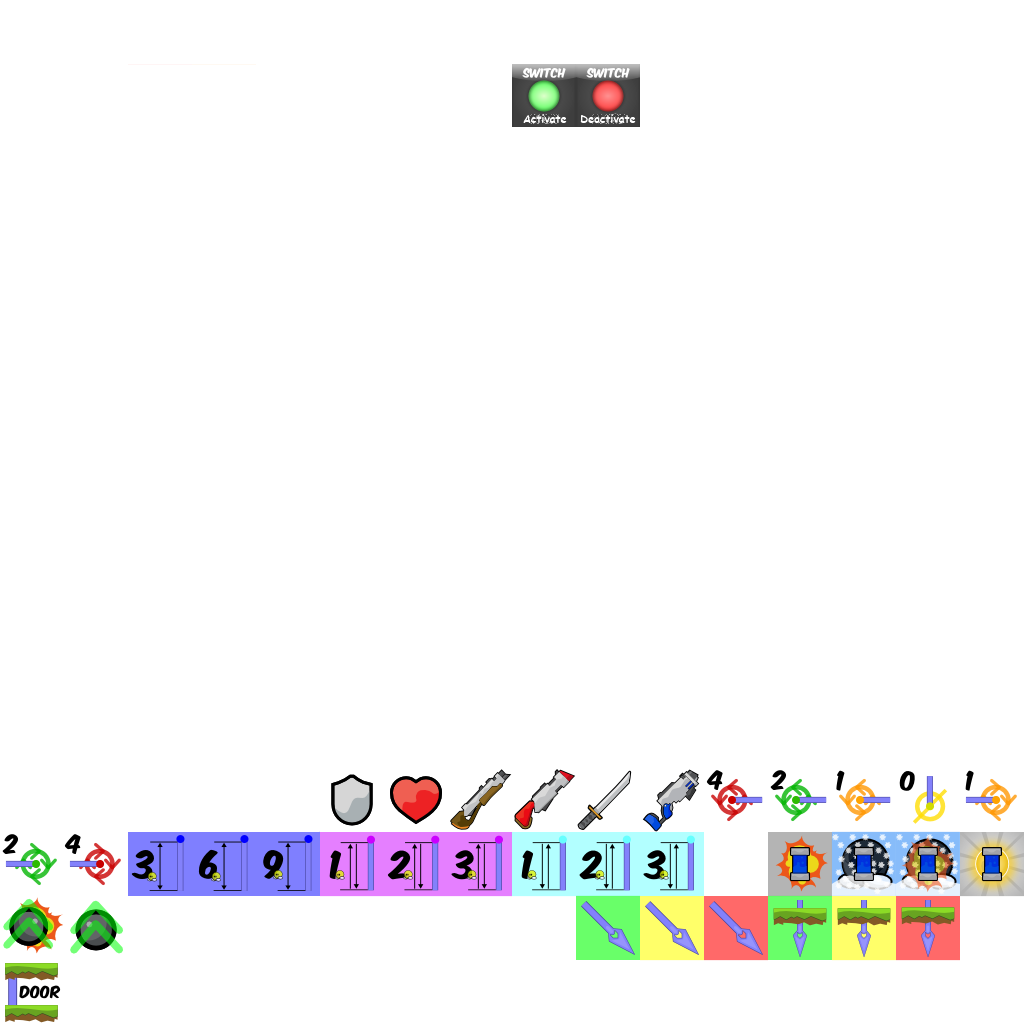
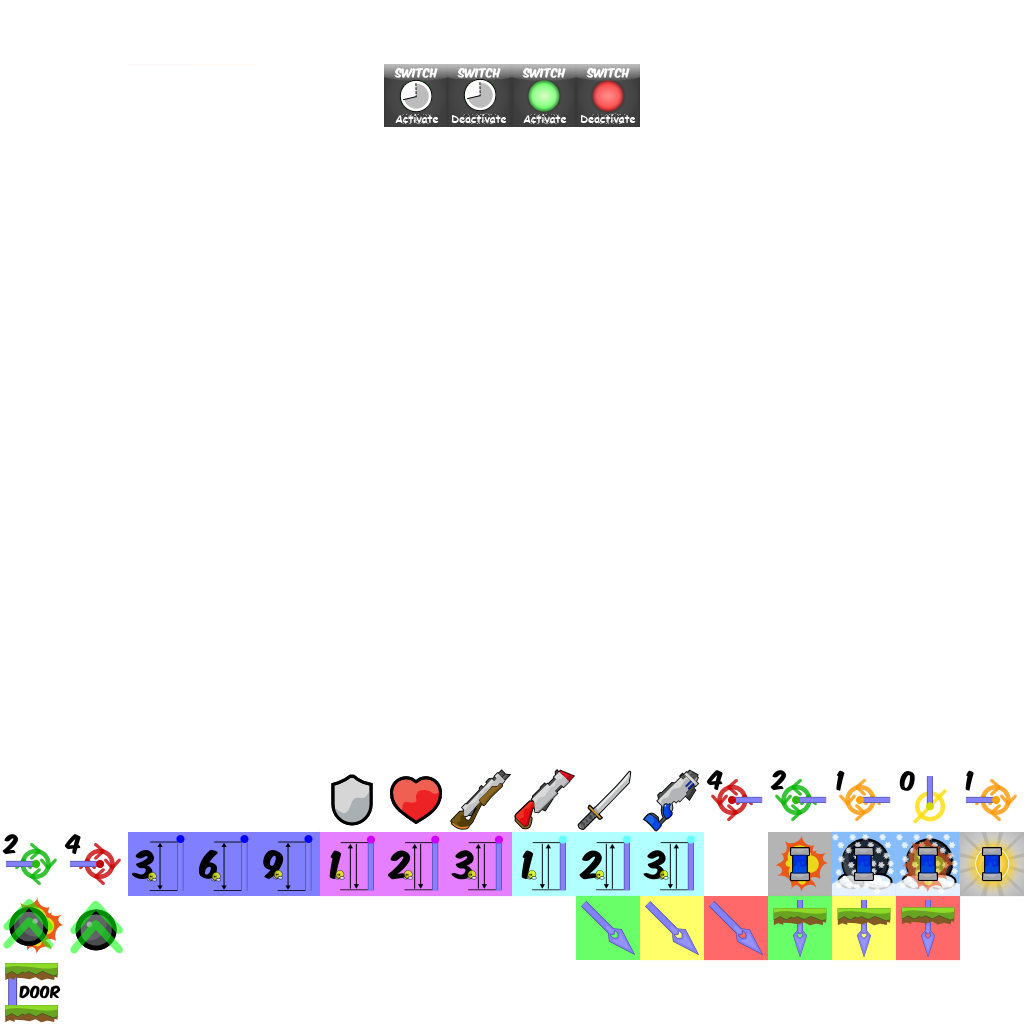
New Delayed Switches

Changed region(s): [[0.375, 0.0625, 0.5, 0.125]]

diff --git a/src/game/editor/ed_layer_tiles.cpp b/src/game/editor/ed_layer_tiles.cpp
@@ -217,8 +217,11 @@ int CLayerTiles::BrushGrab(CLayerGroup *pBrush, CUIRect Rect)
 				for(int x = 0; x < r.w; x++)
 				{
 					pGrabbed->m_pSwitchTile[y*pGrabbed->m_Width+x] = ((CLayerSwitch*)this)->m_pSwitchTile[(r.y+y)*m_Width+(r.x+x)];
-					if(pGrabbed->m_pSwitchTile[y*pGrabbed->m_Width+x].m_Type == ENTITY_DOOR + ENTITY_OFFSET || pGrabbed->m_pSwitchTile[y*pGrabbed->m_Width+x].m_Type == TILE_SWITCHOPEN || pGrabbed->m_pSwitchTile[y*pGrabbed->m_Width+x].m_Type == TILE_SWITCHCLOSE || pGrabbed->m_pSwitchTile[y*pGrabbed->m_Width+x].m_Type == ENTITY_LASER_LONG + ENTITY_OFFSET || pGrabbed->m_pSwitchTile[y*pGrabbed->m_Width+x].m_Type == ENTITY_LASER_MEDIUM + ENTITY_OFFSET || pGrabbed->m_pSwitchTile[y*pGrabbed->m_Width+x].m_Type == ENTITY_LASER_SHORT + ENTITY_OFFSET)
+					if(pGrabbed->m_pSwitchTile[y*pGrabbed->m_Width+x].m_Type == ENTITY_DOOR + ENTITY_OFFSET || pGrabbed->m_pSwitchTile[y*pGrabbed->m_Width+x].m_Type == TILE_SWITCHOPEN || pGrabbed->m_pSwitchTile[y*pGrabbed->m_Width+x].m_Type == TILE_SWITCHCLOSE || pGrabbed->m_pSwitchTile[y*pGrabbed->m_Width+x].m_Type == TILE_SWITCHTIMEDOPEN || pGrabbed->m_pSwitchTile[y*pGrabbed->m_Width+x].m_Type == TILE_SWITCHTIMEDCLOSE || pGrabbed->m_pSwitchTile[y*pGrabbed->m_Width+x].m_Type == ENTITY_LASER_LONG + ENTITY_OFFSET || pGrabbed->m_pSwitchTile[y*pGrabbed->m_Width+x].m_Type == ENTITY_LASER_MEDIUM + ENTITY_OFFSET || pGrabbed->m_pSwitchTile[y*pGrabbed->m_Width+x].m_Type == ENTITY_LASER_SHORT + ENTITY_OFFSET)
+					{
 						m_pEditor->m_SwitchNum = pGrabbed->m_pSwitchTile[y*pGrabbed->m_Width+x].m_Number;
+						m_pEditor->m_SwitchDelay = pGrabbed->m_pSwitchTile[y*pGrabbed->m_Width+x].m_Delay;
+					}
 				}
 	}
 	else
@@ -289,7 +292,7 @@ void CLayerTiles::BrushDraw(CLayer *pBrush, float wx, float wy)
 				continue;
 				
 			// dont allow tele in and out tiles... same with speedup tile in game layer
-			if(m_pEditor->GetSelectedLayer(0) == m_pEditor->m_Map.m_pGameLayer && (l->m_pTiles[y*l->m_Width+x].m_Index == TILE_TELEIN || l->m_pTiles[y*l->m_Width+x].m_Index == TILE_TELEINEVIL || l->m_pTiles[y*l->m_Width+x].m_Index == TILE_TELEOUT || l->m_pTiles[y*l->m_Width+x].m_Index == TILE_BOOST || l->m_pTiles[y*l->m_Width+x].m_Index == TILE_SWITCHOPEN || l->m_pTiles[y*l->m_Width+x].m_Index == TILE_SWITCHCLOSE || l->m_pTiles[y*l->m_Width+x].m_Index == (ENTITY_DOOR + ENTITY_OFFSET)))
+			if(m_pEditor->GetSelectedLayer(0) == m_pEditor->m_Map.m_pGameLayer && (l->m_pTiles[y*l->m_Width+x].m_Index == TILE_TELEIN || l->m_pTiles[y*l->m_Width+x].m_Index == TILE_TELEINEVIL || l->m_pTiles[y*l->m_Width+x].m_Index == TILE_TELEOUT || l->m_pTiles[y*l->m_Width+x].m_Index == TILE_BOOST || l->m_pTiles[y*l->m_Width+x].m_Index == TILE_SWITCHOPEN || l->m_pTiles[y*l->m_Width+x].m_Index == TILE_SWITCHCLOSE || l->m_pTiles[y*l->m_Width+x].m_Index == TILE_SWITCHTIMEDOPEN || l->m_pTiles[y*l->m_Width+x].m_Index == TILE_SWITCHTIMEDCLOSE || l->m_pTiles[y*l->m_Width+x].m_Index == (ENTITY_DOOR + ENTITY_OFFSET)))
 				continue;
 
 			m_pTiles[fy*m_Width+fx] = l->m_pTiles[y*l->m_Width+x];
@@ -926,7 +929,7 @@ void CLayerFront::BrushDraw(CLayer *pBrush, float wx, float wy)
 				continue;
 
 			// dont allow tele in and out tiles... same with speedup tile and alot more in front
-			if(m_pEditor->GetSelectedLayer(0) == m_pEditor->m_Map.m_pFrontLayer && (l->m_pTiles[y*l->m_Width+x].m_Index == TILE_TELEIN || l->m_pTiles[y*l->m_Width+x].m_Index == TILE_TELEINEVIL || l->m_pTiles[y*l->m_Width+x].m_Index == TILE_TELEOUT || l->m_pTiles[y*l->m_Width+x].m_Index == TILE_BOOST || l->m_pTiles[y*l->m_Width+x].m_Index == TILE_SWITCHOPEN || l->m_pTiles[y*l->m_Width+x].m_Index == TILE_SWITCHCLOSE || l->m_pTiles[y*l->m_Width+x].m_Index == (ENTITY_DOOR + ENTITY_OFFSET)) || l->m_pTiles[y*l->m_Width+x].m_Index == (TILE_SOLID) || l->m_pTiles[y*l->m_Width+x].m_Index == (TILE_NOHOOK) || l->m_pTiles[y*l->m_Width+x].m_Index ==TILE_CP || l->m_pTiles[y*l->m_Width+x].m_Index ==TILE_CP_F)
+			if(m_pEditor->GetSelectedLayer(0) == m_pEditor->m_Map.m_pFrontLayer && (l->m_pTiles[y*l->m_Width+x].m_Index == TILE_TELEIN || l->m_pTiles[y*l->m_Width+x].m_Index == TILE_TELEINEVIL || l->m_pTiles[y*l->m_Width+x].m_Index == TILE_TELEOUT || l->m_pTiles[y*l->m_Width+x].m_Index == TILE_BOOST || l->m_pTiles[y*l->m_Width+x].m_Index == TILE_SWITCHOPEN || l->m_pTiles[y*l->m_Width+x].m_Index == TILE_SWITCHCLOSE  || l->m_pTiles[y*l->m_Width+x].m_Index == TILE_SWITCHTIMEDOPEN  || l->m_pTiles[y*l->m_Width+x].m_Index == TILE_SWITCHTIMEDCLOSE || l->m_pTiles[y*l->m_Width+x].m_Index == (ENTITY_DOOR + ENTITY_OFFSET)) || l->m_pTiles[y*l->m_Width+x].m_Index == (TILE_SOLID) || l->m_pTiles[y*l->m_Width+x].m_Index == (TILE_NOHOOK) || l->m_pTiles[y*l->m_Width+x].m_Index ==TILE_CP || l->m_pTiles[y*l->m_Width+x].m_Index ==TILE_CP_F)
 				continue;
 			m_pTiles[fy*m_Width+fx] = l->m_pTiles[y*l->m_Width+x];
 		}
@@ -1019,7 +1022,7 @@ void CLayerSwitch::BrushDraw(CLayer *pBrush, float wx, float wy)
 			if(fx<0 || fx >= m_Width || fy < 0 || fy >= m_Height)
 				continue;
 
-			if(l->m_pTiles[y*l->m_Width+x].m_Index >= (ENTITY_ARMOR_1 + ENTITY_OFFSET) && l->m_pTiles[y*l->m_Width+x].m_Index <= (ENTITY_DOOR + ENTITY_OFFSET) || l->m_pTiles[y*l->m_Width+x].m_Index == TILE_SWITCHOPEN || l->m_pTiles[y*l->m_Width+x].m_Index == TILE_SWITCHCLOSE)
+			if(l->m_pTiles[y*l->m_Width+x].m_Index >= (ENTITY_ARMOR_1 + ENTITY_OFFSET) && l->m_pTiles[y*l->m_Width+x].m_Index <= (ENTITY_DOOR + ENTITY_OFFSET) || l->m_pTiles[y*l->m_Width+x].m_Index == TILE_SWITCHOPEN || l->m_pTiles[y*l->m_Width+x].m_Index == TILE_SWITCHCLOSE || l->m_pTiles[y*l->m_Width+x].m_Index == TILE_SWITCHTIMEDOPEN || l->m_pTiles[y*l->m_Width+x].m_Index == TILE_SWITCHTIMEDCLOSE)
 			{
 				/*if(l->m_pSwitchTile[y*l->m_Width+x].m_Number)
 					m_pSwitchTile[fy*m_Width+fx].m_Number = l->m_pSwitchTile[y*l->m_Width+x].m_Number;
@@ -1030,6 +1033,7 @@ void CLayerSwitch::BrushDraw(CLayer *pBrush, float wx, float wy)
 						m_pSwitchTile[fy*m_Width+fx].m_Number = 0;
 						m_pSwitchTile[fy*m_Width+fx].m_Type = 0;
 						m_pSwitchTile[fy*m_Width+fx].m_Flags = 0;
+						m_pSwitchTile[fy*m_Width+fx].m_Delay = 0;
 						m_pTiles[fy*m_Width+fx].m_Index = 0;
 						continue;
 					}
@@ -1039,6 +1043,7 @@ void CLayerSwitch::BrushDraw(CLayer *pBrush, float wx, float wy)
 
 				m_pSwitchTile[fy*m_Width+fx].m_Type = l->m_pTiles[y*l->m_Width+x].m_Index;
 				m_pSwitchTile[fy*m_Width+fx].m_Flags = l->m_pTiles[y*l->m_Width+x].m_Flags;
+				m_pSwitchTile[fy*m_Width+fx].m_Delay = m_pEditor->m_SwitchDelay;
 				m_pTiles[fy*m_Width+fx].m_Index = l->m_pTiles[y*l->m_Width+x].m_Index;
 			}
 			else
@@ -1046,6 +1051,7 @@ void CLayerSwitch::BrushDraw(CLayer *pBrush, float wx, float wy)
 				m_pSwitchTile[fy*m_Width+fx].m_Number = 0;
 				m_pSwitchTile[fy*m_Width+fx].m_Type = 0;
 				m_pSwitchTile[fy*m_Width+fx].m_Flags = 0;
+				m_pSwitchTile[fy*m_Width+fx].m_Delay = 0;
 				m_pTiles[fy*m_Width+fx].m_Index = 0;
 			}
 		}

diff --git a/src/game/server/entities/character.cpp b/src/game/server/entities/character.cpp
@@ -1015,9 +1015,29 @@ void CCharacter::HandleTiles(int Index)
 	}
 	// handle switch tiles
 	if(GameServer()->Collision()->IsSwitch(MapIndex) == TILE_SWITCHOPEN && Team() != TEAM_SUPER)
-		GameServer()->Collision()->m_pSwitchers[GameServer()->Collision()->GetSWitchNumber(MapIndex)].m_Status[Team()] = true;
-	if(GameServer()->Collision()->IsSwitch(MapIndex) == TILE_SWITCHCLOSE && Team() != TEAM_SUPER)
-		GameServer()->Collision()->m_pSwitchers[GameServer()->Collision()->GetSWitchNumber(MapIndex)].m_Status[Team()] = false;
+	{
+		GameServer()->Collision()->m_pSwitchers[GameServer()->Collision()->GetSwitchNumber(MapIndex)].m_Status[Team()] = true;
+		GameServer()->Collision()->m_pSwitchers[GameServer()->Collision()->GetSwitchNumber(MapIndex)].m_EndTick[Team()] = 0;
+		GameServer()->Collision()->m_pSwitchers[GameServer()->Collision()->GetSwitchNumber(MapIndex)].m_Type[Team()] = TILE_SWITCHOPEN;
+	}
+	else if(GameServer()->Collision()->IsSwitch(MapIndex) == TILE_SWITCHTIMEDOPEN && Team() != TEAM_SUPER)
+	{
+		GameServer()->Collision()->m_pSwitchers[GameServer()->Collision()->GetSwitchNumber(MapIndex)].m_Status[Team()] = true;
+		GameServer()->Collision()->m_pSwitchers[GameServer()->Collision()->GetSwitchNumber(MapIndex)].m_EndTick[Team()] = Server()->Tick() + 1 + GameServer()->Collision()->GetSwitchDelay(MapIndex)*Server()->TickSpeed() ;
+		GameServer()->Collision()->m_pSwitchers[GameServer()->Collision()->GetSwitchNumber(MapIndex)].m_Type[Team()] = TILE_SWITCHTIMEDOPEN;
+	}
+	else if(GameServer()->Collision()->IsSwitch(MapIndex) == TILE_SWITCHTIMEDCLOSE && Team() != TEAM_SUPER)
+	{
+		GameServer()->Collision()->m_pSwitchers[GameServer()->Collision()->GetSwitchNumber(MapIndex)].m_Status[Team()] = false;
+		GameServer()->Collision()->m_pSwitchers[GameServer()->Collision()->GetSwitchNumber(MapIndex)].m_EndTick[Team()] = Server()->Tick() + 1 + GameServer()->Collision()->GetSwitchDelay(MapIndex)*Server()->TickSpeed();
+		GameServer()->Collision()->m_pSwitchers[GameServer()->Collision()->GetSwitchNumber(MapIndex)].m_Type[Team()] = TILE_SWITCHTIMEDCLOSE;
+	}
+	else if(GameServer()->Collision()->IsSwitch(MapIndex) == TILE_SWITCHCLOSE && Team() != TEAM_SUPER)
+	{
+		GameServer()->Collision()->m_pSwitchers[GameServer()->Collision()->GetSwitchNumber(MapIndex)].m_Status[Team()] = false;
+		GameServer()->Collision()->m_pSwitchers[GameServer()->Collision()->GetSwitchNumber(MapIndex)].m_EndTick[Team()] = 0;
+		GameServer()->Collision()->m_pSwitchers[GameServer()->Collision()->GetSwitchNumber(MapIndex)].m_Type[Team()] = TILE_SWITCHCLOSE;
+	}
 	// handle speedup tiles
 	if(GameServer()->Collision()->IsSpeedup(MapIndex) == TILE_BOOST)
 	{

diff --git a/src/game/collision.cpp b/src/game/collision.cpp
@@ -48,7 +48,7 @@ void CCollision::Init(class CLayers *pLayers)
 {
 	if(m_pLayers) m_pLayers->Dest();
 	Dest();
-	int NumSwitchers = 0;
+	m_NumSwitchers = 0;
 	m_pLayers = pLayers;
 	m_Width = m_pLayers->GameLayer()->m_Width;
 	m_Height = m_pLayers->GameLayer()->m_Height;
@@ -78,8 +78,8 @@ void CCollision::Init(class CLayers *pLayers)
 		int Index;
 		if(m_pSwitch)
 		{
-			if(m_pSwitch[i].m_Number > NumSwitchers)
-				NumSwitchers = m_pSwitch[i].m_Number;
+			if(m_pSwitch[i].m_Number > m_NumSwitchers)
+				m_NumSwitchers = m_pSwitch[i].m_Number;
 			if(m_pSwitch[i].m_Number)
 				m_pDoor[i].m_Number = m_pSwitch[i].m_Number;
 			else
@@ -88,7 +88,7 @@ void CCollision::Init(class CLayers *pLayers)
 			Index = m_pSwitch[i].m_Type;
 			if(Index <= TILE_NPH)
 			{
-				if(Index == TILE_SWITCHOPEN || Index == TILE_SWITCHCLOSE)
+				if(Index >= TILE_SWITCHTIMEDOPEN && Index <= TILE_SWITCHCLOSE)
 					m_pSwitch[i].m_Type = Index;
 				else
 					m_pSwitch[i].m_Type = 0;
@@ -148,15 +148,17 @@ void CCollision::Init(class CLayers *pLayers)
 				m_pTiles[i].m_Index = Index;
 		}
 	}
-	if(NumSwitchers)
+	if(m_NumSwitchers)
 	{
-		m_pSwitchers = new SSwitchers[NumSwitchers+1];
+		m_pSwitchers = new SSwitchers[m_NumSwitchers+1];
 	
-		for (int i = 0; i < NumSwitchers+1; ++i)
+		for (int i = 0; i < m_NumSwitchers+1; ++i)
 		{
 			for (int j = 0; j < 16; ++j)
 			{
 				m_pSwitchers[i].m_Status[j] = true;
+				m_pSwitchers[i].m_EndTick[j] = 0;
+				m_pSwitchers[i].m_Type[j] = 0;
 			}
 		}
 	}
@@ -774,9 +776,9 @@ int CCollision::IsSwitch(int Index)
 	return 0;
 }
 
-int CCollision::GetSWitchNumber(int Index)
+int CCollision::GetSwitchNumber(int Index)
 {
-	//dbg_msg("GetSWitchNumber","Index %d, pSwitch %d, m_Type %d, m_Number %d", Index, m_pSwitch, (m_pSwitch)?m_pSwitch[Index].m_Type:0, (m_pSwitch)?m_pSwitch[Index].m_Number:0);
+	//dbg_msg("GetSwitchNumber","Index %d, pSwitch %d, m_Type %d, m_Number %d", Index, m_pSwitch, (m_pSwitch)?m_pSwitch[Index].m_Type:0, (m_pSwitch)?m_pSwitch[Index].m_Number:0);
 	if(Index < 0)
 		return 0;
 	if(!m_pSwitch)
@@ -784,6 +786,20 @@ int CCollision::GetSWitchNumber(int Index)
 
 	if(m_pSwitch[Index].m_Type > 0 && m_pSwitch[Index].m_Number > 0)
 		return m_pSwitch[Index].m_Number;
+
+	return 0;
+}
+
+int CCollision::GetSwitchDelay(int Index)
+{
+	//dbg_msg("GetSwitchNumber","Index %d, pSwitch %d, m_Type %d, m_Number %d", Index, m_pSwitch, (m_pSwitch)?m_pSwitch[Index].m_Type:0, (m_pSwitch)?m_pSwitch[Index].m_Number:0);
+	if(Index < 0)
+		return 0;
+	if(!m_pSwitch)
+		return false;
+
+	if(m_pSwitch[Index].m_Type > 0 && m_pSwitch[Index].m_Number > 0)
+		return m_pSwitch[Index].m_Delay;
 
 	return 0;
 }

diff --git a/src/game/editor/ed_io.cpp b/src/game/editor/ed_io.cpp
@@ -639,9 +639,19 @@ int CEditorMap::Load(class IStorage *pStorage, const char *pFileName, int Storag
 
 							for(int i = 0; i < pTiles->m_Width*pTiles->m_Height; i++)
 							{
-								if(((CLayerSwitch*)pTiles)->m_pSwitchTile[i].m_Type > (ENTITY_CRAZY_SHOTGUN + ENTITY_OFFSET) && ((CLayerSwitch*)pTiles)->m_pSwitchTile[i].m_Type < (ENTITY_DRAGGER_WEAK + ENTITY_OFFSET))
+								if((((CLayerSwitch*)pTiles)->m_pSwitchTile[i].m_Type > (ENTITY_CRAZY_SHOTGUN + ENTITY_OFFSET) && ((CLayerSwitch*)pTiles)->m_pSwitchTile[i].m_Type < (ENTITY_DRAGGER_WEAK + ENTITY_OFFSET) || ((CLayerSwitch*)pTiles)->m_pSwitchTile[i].m_Type == (ENTITY_LASER_O_FAST + 1 + ENTITY_OFFSET)))
 									continue;
-								if(((CLayerSwitch*)pTiles)->m_pSwitchTile[i].m_Type == TILE_SWITCHOPEN)
+								if(((CLayerSwitch*)pTiles)->m_pSwitchTile[i].m_Type == TILE_SWITCHTIMEDOPEN)
+								{
+									((CLayerTiles*)pTiles)->m_pTiles[i].m_Index = TILE_SWITCHTIMEDOPEN;
+									((CLayerTiles*)pTiles)->m_pTiles[i].m_Flags = ((CLayerSwitch*)pTiles)->m_pSwitchTile[i].m_Flags;
+								}
+								else if(((CLayerSwitch*)pTiles)->m_pSwitchTile[i].m_Type == TILE_SWITCHTIMEDCLOSE)
+								{
+									((CLayerTiles*)pTiles)->m_pTiles[i].m_Index = TILE_SWITCHTIMEDCLOSE;
+									((CLayerTiles*)pTiles)->m_pTiles[i].m_Flags = ((CLayerSwitch*)pTiles)->m_pSwitchTile[i].m_Flags;
+								}
+								else if(((CLayerSwitch*)pTiles)->m_pSwitchTile[i].m_Type == TILE_SWITCHOPEN)
 								{
 									((CLayerTiles*)pTiles)->m_pTiles[i].m_Index = TILE_SWITCHOPEN;
 									((CLayerTiles*)pTiles)->m_pTiles[i].m_Flags = ((CLayerSwitch*)pTiles)->m_pSwitchTile[i].m_Flags;

diff --git a/src/game/server/gamecontext.cpp b/src/game/server/gamecontext.cpp
@@ -578,12 +578,33 @@ void CGameContext::OnTick()
 			}
 		}
 	}
+
 if(Server()->Tick() % Server()->TickSpeed() * 60 == g_Config.m_SvAnnouncementInterval)
 {
 	char *Line = ((CServer *) Server())->GetLine(g_Config.m_SvAnnouncementFileName, m_AnnouncementLine++);
 	if(Line)
 		SendChat(-1, CGameContext::CHAT_ALL, Line);
 }
+
+if(Collision()->m_NumSwitchers)
+	for (int i = 0; i < Collision()->m_NumSwitchers+1; ++i)
+	{
+		for (int j = 0; j < 16; ++j)
+		{
+			if(Collision()->m_pSwitchers[i].m_EndTick[j] <= Server()->Tick() && Collision()->m_pSwitchers[i].m_Type[j] == TILE_SWITCHTIMEDOPEN)
+			{
+				Collision()->m_pSwitchers[i].m_Status[j] = false;
+				Collision()->m_pSwitchers[i].m_EndTick[j] = 0;
+				Collision()->m_pSwitchers[i].m_Type[j] = TILE_SWITCHCLOSE;
+			}
+			else if(Collision()->m_pSwitchers[i].m_EndTick[j] <= Server()->Tick() && Collision()->m_pSwitchers[i].m_Type[j] == TILE_SWITCHTIMEDCLOSE)
+			{
+				Collision()->m_pSwitchers[i].m_Status[j] = true;
+				Collision()->m_pSwitchers[i].m_EndTick[j] = 0;
+				Collision()->m_pSwitchers[i].m_Type[j] = TILE_SWITCHOPEN;
+			}
+		}
+	}
 
 #ifdef CONF_DEBUG
 	if(g_Config.m_DbgDummies)

diff --git a/src/game/editor/ed_popups.cpp b/src/game/editor/ed_popups.cpp
@@ -613,12 +613,14 @@ int CEditor::PopupSwitch(CEditor *pEditor, CUIRect View)
 
 	enum
 	{
-		PROP_Switch=0,
+		PROP_SwitchNumber=0,
+		PROP_SwitchDelay,
 		NUM_PROPS,
 	};
 
 	CProperty aProps[] = {
 		{"Number", pEditor->m_SwitchNum, PROPTYPE_INT_STEP, 0, 255},
+		{"Delay", pEditor->m_SwitchDelay, PROPTYPE_INT_STEP, 0, 255},
 		{0},
 	};
 
@@ -626,8 +628,10 @@ int CEditor::PopupSwitch(CEditor *pEditor, CUIRect View)
 	int NewVal = 0;
 	int Prop = pEditor->DoProperties(&View, aProps, s_aIds, &NewVal);
 
-	if(Prop == PROP_Switch)
+	if(Prop == PROP_SwitchNumber)
 		 pEditor->m_SwitchNum = clamp(NewVal, 0, 255);
+	if(Prop == PROP_SwitchDelay)
+		 pEditor->m_SwitchDelay = clamp(NewVal, 0, 255);
 
 	return 0;
 }

diff --git a/src/game/collision.h b/src/game/collision.h
@@ -20,6 +20,8 @@ class CCollision
 	struct SSwitchers
 	{
 		bool m_Status[16];
+		int m_EndTick[16];
+		int m_Type[16];
 	};
 
 public:
@@ -74,7 +76,8 @@ public:
 	int IsSpeedup(int Index);
 	void GetSpeedup(int Index, vec2 *Dir, int *Force, int *MaxSpeed);
 	int IsSwitch(int Index);
-	int GetSWitchNumber(int Index);
+	int GetSwitchNumber(int Index);
+	int GetSwitchDelay(int Index);
 	
 	int IsSolid(int x, int y);
 	int IsThrough(int x, int y);
@@ -94,6 +97,7 @@ public:
 	class CSwitchTile *SwitchLayer() { return m_pSwitch; }
 	class CLayers *Layers() { return m_pLayers; }
 	SSwitchers* m_pSwitchers;
+	int m_NumSwitchers;
 };
 
 #endif

diff --git a/src/game/client/render_map.cpp b/src/game/client/render_map.cpp
@@ -429,7 +429,15 @@ void CRenderTools::RenderSwitchmap(CSwitchTile *pSwitch, int w, int h, float Sca
 			{
 				char aBuf[16];
 				str_format(aBuf, sizeof(aBuf), "%d", Index);
-				UI()->TextRender()->Text(0, mx*Scale-2, my*Scale-4, Scale-5, aBuf, -1);
+				UI()->TextRender()->Text(0, mx*Scale, my*Scale+16, Scale-20, aBuf, -1);
+			}
+
+			unsigned char Delay = pSwitch[c].m_Delay;
+			if(Delay)
+			{
+				char aBuf[16];
+				str_format(aBuf, sizeof(aBuf), "%d", Delay);
+				UI()->TextRender()->Text(0, mx*Scale, my*Scale-2, Scale-20, aBuf, -1);
 			}
 		}
 

diff --git a/src/game/editor/ed_editor.cpp b/src/game/editor/ed_editor.cpp
@@ -847,7 +847,7 @@ void CEditor::DoToolbar(CUIRect ToolBar)
 		if(DoButton_Ex(&s_SwitchButton, "Switcher", (pS && pS->m_Switch)?0:-1, &Button, 0, "Switcher", CUI::CORNER_ALL))
 		{
 			static int s_SwitchPopupId = 0;
-			UiInvokePopupMenu(&s_SwitchPopupId, 0, UI()->MouseX(), UI()->MouseY(), 120, 23, PopupSwitch);
+			UiInvokePopupMenu(&s_SwitchPopupId, 0, UI()->MouseX(), UI()->MouseY(), 120, 36, PopupSwitch);
 		}
 	}
 

diff --git a/src/game/mapitems.h b/src/game/mapitems.h
@@ -91,7 +91,9 @@ enum
 	TILE_TELEINEVIL,
 	TILE_UNFREEZE,
 	//Switches
-	TILE_SWITCHOPEN = 24,
+	TILE_SWITCHTIMEDOPEN = 22,
+	TILE_SWITCHTIMEDCLOSE,
+	TILE_SWITCHOPEN,
 	TILE_SWITCHCLOSE,
 	TILE_TELEIN,
 	TILE_TELEOUT,
@@ -185,6 +187,7 @@ public:
 	unsigned char m_Number;
 	unsigned char m_Type;
 	unsigned char m_Flags;
+	unsigned char m_Delay;
 };
 
 struct CMapItemImage

diff --git a/src/game/editor/ed_editor.h b/src/game/editor/ed_editor.h
@@ -584,6 +584,7 @@ public:
 		
 		m_TeleNum = 1;
 		m_SwitchNum = 1;
+		m_SwitchDelay = 0;
 		
 		m_SpeedupForce = 50;
 		m_SpeedupMaxSpeed = 0;
@@ -787,6 +788,7 @@ public:
 	short m_SpeedupAngle;
 
 	unsigned char m_SwitchNum;
+	unsigned char m_SwitchDelay;
 };
 
 // make sure to inline this function
